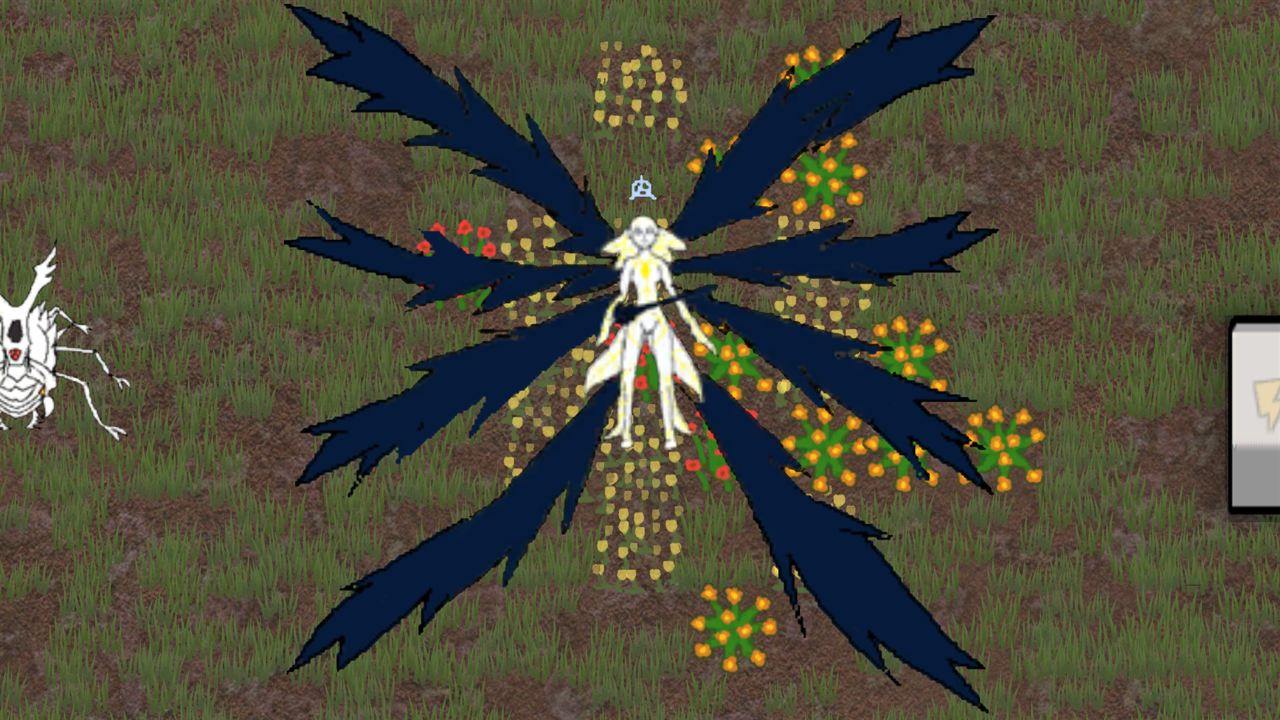
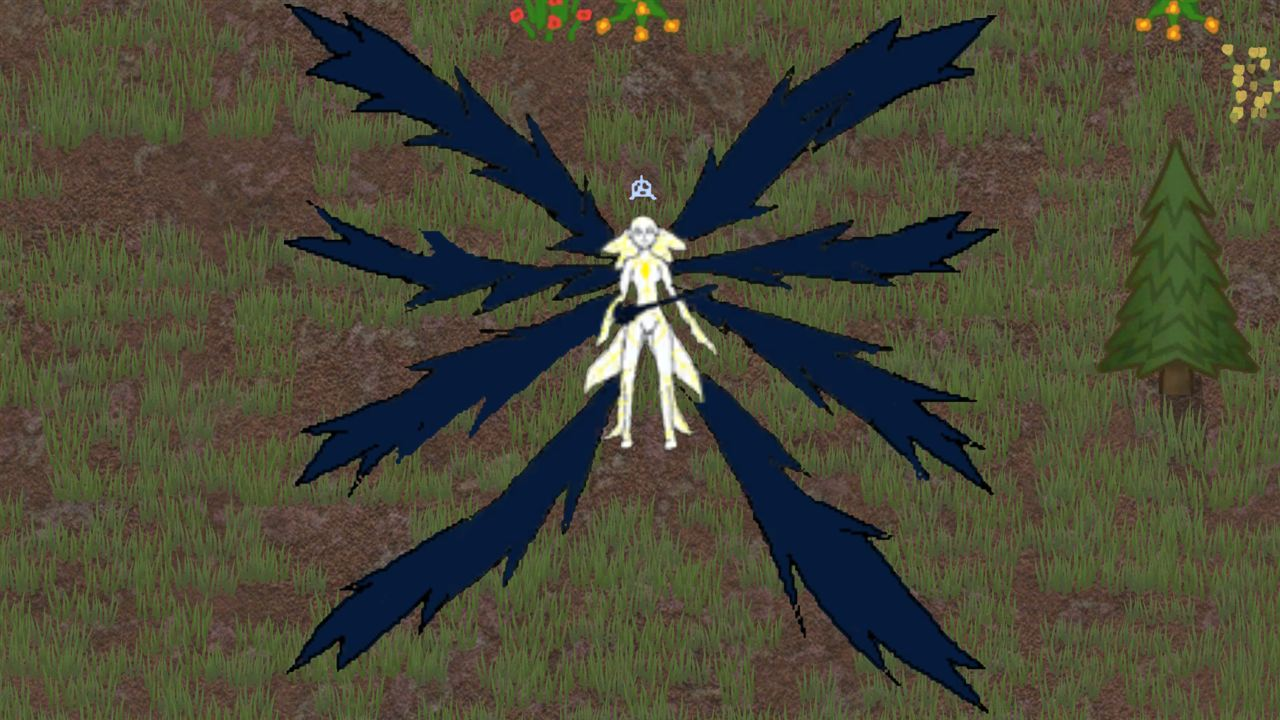
Gallery: use the respaced captures of ticket 9bf6, no more neighbour bleeding for the beetle, seraph and propagator

Changed region(s): [[0.0, 0.0, 1.0, 1.0], [0.9688, 0.9778, 1.0, 1.0]]

diff --git a/PUBLICATION.md b/PUBLICATION.md
@@ -210,11 +210,11 @@ read before being chosen (`docs/runs/history.md`, 2026-09-26/27). No old version
 | File | What it shows | Source |
 |---|---|---|
 | `01-hairstyle-misaka.jpg` | Rina wearing ACS_misaka, facing the camera, filling most of the frame | Feature 17, ticket `4f72` |
-| `02-beetle.jpg` | The white rhinoceros beetle, all six legs, horn and elytra visible | Feature 18, ticket `567e` |
-| `03-seraph.jpg` | God's Power, all eight wings and the sword | Feature 18, ticket `567e` |
+| `02-beetle.jpg` | The white rhinoceros beetle, all six legs, horn and elytra visible | Feature 18, ticket `9bf6` |
+| `03-seraph.jpg` | God's Power, all eight wings and the sword | Feature 18, ticket `9bf6` |
 | `04-hairstyle-accelerator.jpg` | Toma wearing ACS_Accelerator | Feature 17, ticket `4f72` |
 | `05-hairstyle-index.jpg` | Sena wearing ACS_index | Feature 17, ticket `4f72` |
-| `06-propagator.jpg` | The dark matter propagator (shown unpowered, the vanilla no-power icon; owner's call, 2026-09-26: kept, realistic) | Feature 18, ticket `567e` |
+| `06-propagator.jpg` | The dark matter propagator (shown unpowered, the vanilla no-power icon; owner's call, 2026-09-26: kept, realistic) | Feature 18, ticket `9bf6` |
 
 **Checked image by image, 2026-09-27, after the owner asked to verify the gallery.** Two kinds of reserve, neither caught
 before because the earlier read only asked whether the hairstyle or the creature was clear, not what else the frame held:
@@ -223,18 +223,15 @@ before because the earlier read only asked whether the hairstyle or the creature
   evidence small, not shot for the Workshop page. They read clearly at that size, but a fresh, full-resolution capture
   of the same scenes would look better as a page's hero image; not done, since it would mean a seventh pass for images
   alone.
-- **Neighbours bleeding into frame, from feature 18's own layout** (the beetle, the seraph and the propagator are placed
-  7 cells apart on one line, so a wide enough shot of one catches a sliver of the next): `02-beetle.jpg` shows Rina's
-  portrait at the left edge; `03-seraph.jpg` shows the beetle's horn at the left edge and the propagator's icon, cropped,
-  at the right; `06-propagator.jpg` shows a seraph wingtip at the top-left corner. None hides what the image is meant to
-  show, but a reader who has not read this file may wonder what the fragment is. `05-hairstyle-index.jpg` also carries a
-  faint darker vertical band on each side (a vignette from that camera position, not a texture defect): visible on close
-  reading, mild at gallery size. **For 1.0.0, kept as is (owner, 2026-09-27: "pour une 1.0.0 c'est ok")** — none of it is
-  disqualifying. **Fixed in Tests/Pickle/ for whatever version comes after**: feature 18 now spaces the three 10/25/40
-  cells apart instead of 5/12/19, clearing every neighbour's frame; ticket `9bf6` is filed to see it in a game, and may
-  land before this publication, in which case its captures replace `02-beetle.jpg`, `03-seraph.jpg` and
-  `06-propagator.jpg` here. The vignette of `05-hairstyle-index.jpg` is the pre-existing
-  gallery-background reserve of `BACKLOG.md` (moving each colonist onto clear ground), not new.
+- **Neighbours bleeding into frame, from feature 18's original layout** (the beetle, the seraph and the propagator placed
+  7 cells apart on one line, so a wide enough shot of one caught a sliver of the next): fixed 2026-09-27, before this
+  publication — feature 18 now spaces them 10/25/40 cells apart, clearing every neighbour's frame; seen clean in a
+  game, ticket `9bf6`, and `02-beetle.jpg`, `03-seraph.jpg`, `06-propagator.jpg` above are its captures, not the earlier,
+  bleeding ones.
+- `05-hairstyle-index.jpg` carries a faint darker vertical band on each side (a vignette from that camera position, not
+  a texture defect): visible on close reading, mild at gallery size, and the pre-existing gallery-background reserve of
+  `BACKLOG.md` (moving each colonist onto clear ground). Not fixed; kept for 1.0.0 (owner, 2026-09-27: "pour une 1.0.0
+  c'est ok").
 
 Rule that guided the choice (owner, 2026-09-26): what is not interface must be zoomed enough to be seen; a pawn (clothes,
 hair) nearly fills the screen — which is why the wide "research dark matter propagation in view" capture and the first,
